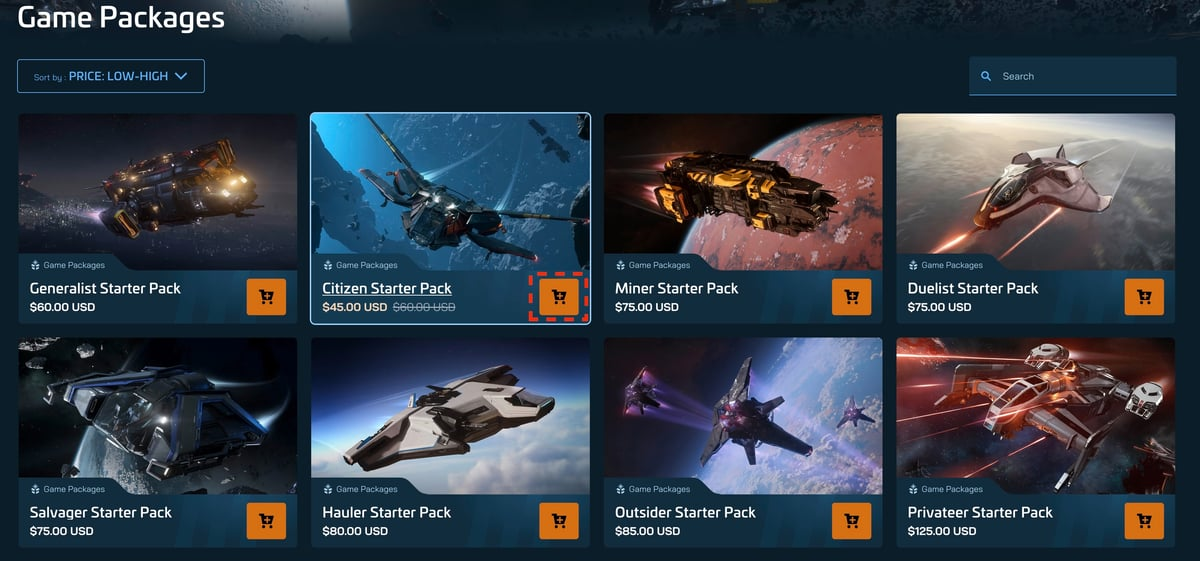
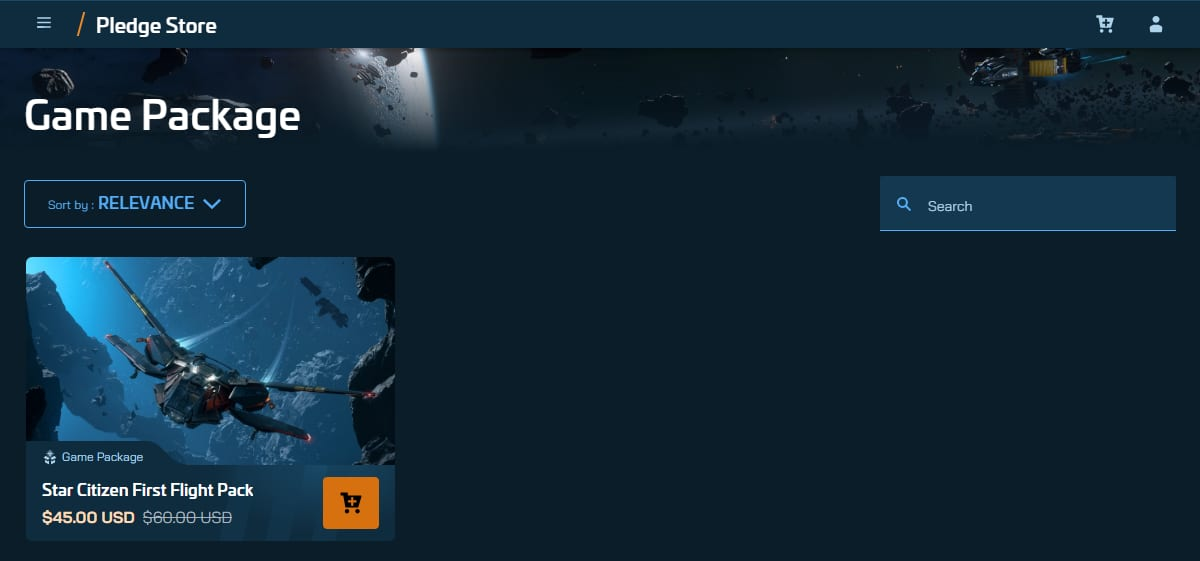
fix: current First Flight Pack store screenshot on buying-the-game (#178)
* fix: replace stale game-packages store screenshot with First Flight Pack capture

* fix: buying-the-game price sentences dated November 2026 (store re-checked 11/06)

---------

diff --git a/src/app/day-one-citizen/buying-the-game/page.tsx b/src/app/day-one-citizen/buying-the-game/page.tsx
@@ -70,7 +70,7 @@ const faqJsonLd = {
       name: 'How much does Star Citizen cost?',
       acceptedAnswer: {
         '@type': 'Answer',
-        text: 'RSI sells one game package, the First Flight Pack. It lists at $60 and was on sale for $45 as of October 2026. It includes access to the Star Citizen alpha, the Aurora Mk II starter ship with six months of insurance, 30-day loans of three more ships, and 10,000 UEC on your account.',
+        text: 'RSI sells one game package, the First Flight Pack. It lists at $60 and was on sale for $45 as of November 2026. It includes access to the Star Citizen alpha, the Aurora Mk II starter ship with six months of insurance, 30-day loans of three more ships, and 10,000 UEC on your account.',
       },
     },
     {
@@ -280,7 +280,7 @@ export default function BuyingTheGamePage() {
             <div className="mt-5 space-y-4 text-base leading-relaxed text-starwhite/85">
               <p>
                 RSI now sells one game package, the First Flight Pack. It lists at $60
-                and was on sale for $45 as of October 2026. It includes:
+                and was on sale for $45 as of November 2026. It includes:
               </p>
               <ul className="list-disc space-y-2 pl-6">
                 <li>Access to the Star Citizen alpha (the live{' '}
@@ -292,13 +292,13 @@ export default function BuyingTheGamePage() {
               <figure className="overflow-hidden rounded-2xl border border-white/10">
                 <Image
                   src="/images/guides/getting-started-game-package-starter-packs-list.jpg"
-                  alt="Grid of game packages on the RSI pledge store, from before the starter packs were replaced by the First Flight Pack."
+                  alt="RSI pledge store Game Packages listing showing the single Star Citizen First Flight Pack at $45, on sale from $60, November 2026."
                   width={1200}
                   height={561}
                   className="h-auto w-full"
                 />
                 <figcaption className="bg-navyLight px-4 py-3 text-xs text-muted">
-                  An earlier screenshot of the game package listing. Today RSI shows a single package, the First Flight Pack, and it includes game access.
+                  The game package listing as of November 2026. RSI shows a single package, the First Flight Pack, and it includes game access.
                 </figcaption>
               </figure>
               <p>
@@ -444,7 +444,7 @@ export default function BuyingTheGamePage() {
                 </h3>
                 <p className="text-starwhite/70 text-sm leading-relaxed">
                   The First Flight Pack lists at $60 and was on sale for $45
-                  as of October 2026. It includes alpha access, the Aurora Mk II
+                  as of November 2026. It includes alpha access, the Aurora Mk II
                   with six months of insurance, and
                   10,000 <Term name="UEC">UEC</Term> on your account.
                 </p>
